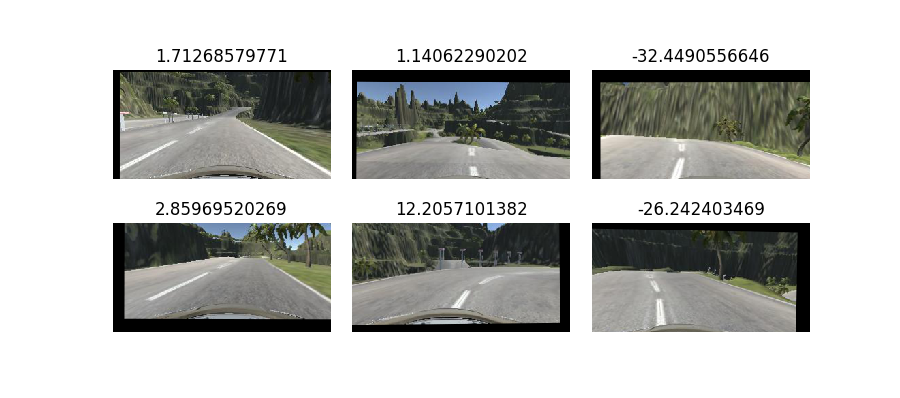
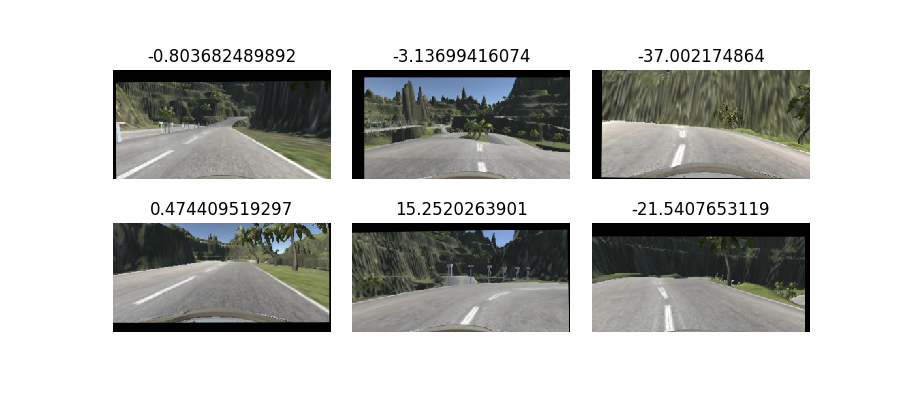
minor fixes

Changed region(s): [[0.1244, 0.1206, 0.9022, 0.4523], [0.1244, 0.4824, 0.9022, 0.8442], [0.6844, 0.4824, 0.8711, 0.5427]]

diff --git a/stat.py b/stat.py
@@ -91,8 +91,8 @@ cols = 3
 rows = 3
 cellscnt = rows
 
-log = lu.readlog(log_path = t1_path,	img_path = './sdcdata/dt1/IMG/')	
-#log = lu.readlog(log_path = t2_path,	img_path = './sdcdata/dt2/IMG/')	
+#log = lu.readlog(log_path = t1_path,	img_path = './sdcdata/dt1/IMG/')	
+log = lu.readlog(log_path = t2_path,	img_path = './sdcdata/dt2/IMG/')	
 fig1 = plt.figure(1,figsize=(9, 4))
 cols = 3 
 rows = 2
@@ -134,10 +134,10 @@ gs = gridspec.GridSpec(rows, cols, hspace=0.0, wspace=0.1)
 ax = [plt.subplot(gs[i]) for i in range(cellscnt)]
 for i in range(cellscnt):
 	img,ang = samples[i]
-	#img,ang = lu.distort(img,ang)
-	img = lu.randomize_light(img)
+	img,ang = lu.distort(img,ang)
+	#img = lu.randomize_light(img)
 	#img = lu.crop(img, ((70, 25), (0, 0)))
-	#ax[i].set_title(str(np.degrees(ang)))
+	ax[i].set_title(str(np.degrees(ang)))
 	ax[i].imshow(img)
 	ax[i].axis('off')
 plt.show()

diff --git a/labutils.py b/labutils.py
@@ -61,7 +61,7 @@ def distort(img, angle, max_rot_degrees = 1, max_dx = 20, max_dy = 20, ang_corre
 	rot_mat[0][2] += dx
 	rot_mat[1][2] += dy
 	result = cv2.warpAffine(img, rot_mat, cvshape, flags=cv2.INTER_LINEAR)
-	return (result, angle + dx*ang_correction)	
+	return (result, angle + -1.0*dx*ang_correction)	
 
 def randomize_light(img, const_factor = 0.5):
 	'''

diff --git a/writeup_report.md b/writeup_report.md
@@ -72,7 +72,8 @@ The model includes RELU layers to introduce nonlinearity (code line 77), and the
 
 The model contains dropout layers in order to reduce overfitting (model.py lines 78). 
 
-The model was trained and validated on different data sets to ensure that the model was not overfitting (init.py 42-51).The model was tested by running it through the simulator and ensuring that the vehicle could stay on the track.
+The model was trained and validated on different data sets to ensure that the model was not overfitting (init.py 42-51). 
+The model was tested by running it through the simulator and ensuring that the vehicle could stay on the track.
 
 #### 3. Model parameter tuning
 
@@ -82,6 +83,7 @@ The model used an adam optimizer, so the learning rate was not tuned manually (m
 
 Training data was chosen to keep the vehicle driving on the road. 
 Data was collected by driving on first track 4-6 laps forward direction, 4-6 laps reverse direction and same on Track 2.
+
 I decided not to record special driving behavior but instead record driving "as is" on both tracks in both directions to experiment how well model can learn from "raw" data. 
 
 For details about how I created the training data, see the next section. 
@@ -96,7 +98,7 @@ So i started with just one output dense layer to see how far i can go with it.
 I had data from just 2 laps of Track 1, because driving track 2 were practically impossible on my laptop. 
 After few tens of trials i implemented few data augmentation utilities (more info in next sections), wich improved performance of my simplest NN ever so it could drive about quarter of lap on first track with speed 9mph.
 
-Then i've decided to try approach similar to [NVIDIA model](https://devblogs.nvidia.com/parallelforall/deep-learning-self-driving-cars/)  
+Then i decided to try approach similar to [NVIDIA model](https://devblogs.nvidia.com/parallelforall/deep-learning-self-driving-cars/)  
 I thought this model might be appropriate because it is designed to solve very similar task. 
 
 NVidia model was to complex to train so i decided to take only 2 convolutional layers with filter 5x5 and only one with filter 3x3. I "replaced" missing layers with max pooling with size 2x2. 
@@ -110,7 +112,7 @@ I trained model using Adam optimizer with batch size 128, 100 steps per epoch, 5
 
 The final step was to run the simulator to see how well the car was driving around track one. There were a few spots where the vehicle fell off the track.
 
-Luckily for me to me aws approved access to g2.2xlarge instance, and i got faster laptop.
+Luckily for me AWS approved access to g2.2xlarge instance, and i got faster laptop.
 So first i decided to record more data, and recorded 4-6 laps on first track in both directions and same on Track 2.
 
 I trained model with this data and run simulator on new laptop. The vehicle was able to drive autonomously around the track without leaving the road on 30mph.
@@ -187,26 +189,32 @@ Actually track 2 is complex enough and normal driving log has practically all dr
 
 Samples recorded on track 1
 ![alt text][track1raw]
+
 Samples recorded on track 2
 ![alt text][track2raw]
+
 To augment the dataset, i adopted my 'distort' routine from traffic signs classification project. 
 This routine (labutils.py line 44) adds small random rotations, horizontal and vertical shifts to the image, and corrects angle according to horizontal shift applied.
 
 Same samples of Track 2 as above, with random distortion applied:
 ![alt text][distort]
+
 I also add random light adjustments to images (labutils.py line 66). 
 
 Same samples of Track 1 as above, with random light adjustment applied:
 ![alt text][light]
+
 I use part of samples with negligible angles as source for new samples with side cameras images and angles adjustment.
 I implemnted this by randomly selecting left or right camera image and adding correction to the steering angle (labutils.py line 175).
 
 Examples of generating new samples from sidecamera images:
 ![alt text][sidecams]
+
 I cropped images to CNN can concentrate on road boarders andcurvature (labutils.py line 25).
 
 Examples of final images:
 ![alt text][cropping]
+
 After the collection process, I had following datasets
 
 Track 1 
@@ -219,6 +227,7 @@ Track 1
 * Valuable left angles freq: 6618 \ 0.5158624990256451
 * Valuable right angles freq: 6211 \ 0.484137500974355
 ![alt text][hist1]
+
 Track 2
 ----
 * Log size: 12879
@@ -229,6 +238,7 @@ Track 2
 * Valuable left angles freq: 4287 \ 0.510782795186465
 * Valuable right angles freq: 4106 \ 0.4892172048135351
 ![alt text][hist2]
+
 As it is seen from histograms, datasets are greatly unbalanced. 
 I balanced datasets by undersampling frequent angles and oversampling rare angles. 
 This results to following datasets: 
@@ -242,6 +252,7 @@ Track 1 balanced
 * Valuable left angles freq: 10062 \ 0.5170075017983763
 * Valuable right angles freq: 9400 \ 0.48299249820162365
 ![alt text][hist1b]
+
 Track 2 balanced 
 ----
 * Log size: 12859
@@ -252,6 +263,7 @@ Track 2 balanced
 * Valuable left angles freq: 6385 \ 0.5107591392688585
 * Valuable right angles freq: 6116 \ 0.48924086073114154
 ![alt text][hist2b]
+
 I trained final model on mixture of whole balanced data set of Track 2 and balanced data set of Track 1 with proportion 2:1 (model.py line 169), so the final data set contained 19289 data points.
 
 I finally randomly shuffled the data set and put 20% of the data into a validation set. 
